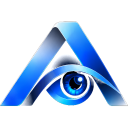
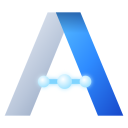
feat(web): marca ARGOS sem olho — "A" em duas faixas com conexão
- Novo símbolo em vector (public/brand/argos-a.svg): um "A" de duas
  faixas, prata e azul, dobradas no topo, com uma conexão de três nós no
  lugar do traço do meio. Sem olho.
- A interface usa o SVG (nítido em qualquer ecrã); `npm run icons` gera
  do PNG exportado o favicon, os ícones da app, os SVG e a capa social.

Claude-Session: https://claude.ai/code/session_01LNCbQ3orvpDpigXG8TknfL

diff --git a/apps/web/src/components/ui.tsx b/apps/web/src/components/ui.tsx
@@ -12,16 +12,17 @@ export { Icon };
 
 // --------------------------------------------------------------------- marca
 /**
- * O símbolo: o "A" com o olho, em azul metálico.
+ * O símbolo: um "A" em duas faixas (prata e azul) dobradas no topo, com uma
+ * conexão de três nós no lugar do traço do meio — é o que o ARGOS faz: liga
+ * informação pública.
  *
- * É uma imagem (não um desenho em SVG): a fonte é `public/brand/argos-a.png`
- * e `npm run icons` gera dela a versão de 128 px usada aqui, o favicon, os
- * ícones da app e a capa social. O teste `ui.test.mts` confirma que este
- * componente e os ficheiros gerados apontam para a mesma fonte.
+ * A fonte é o vector `public/brand/argos-a.svg` (nítido em qualquer ecrã);
+ * `npm run icons` gera a partir da versão PNG o favicon, os ícones da app e a
+ * capa social. O teste `ui.test.mts` confirma que tudo aponta para a mesma fonte.
  */
 export function Mark({ size = 30, className }: { size?: number; className?: string }) {
   return (
-    <img className={className} src="/brand/argos-a-128.png" width={size} height={size}
+    <img className={className} src="/brand/argos-a.svg" width={size} height={size}
       alt="ARGOS" decoding="async" draggable={false} />
   );
 }
